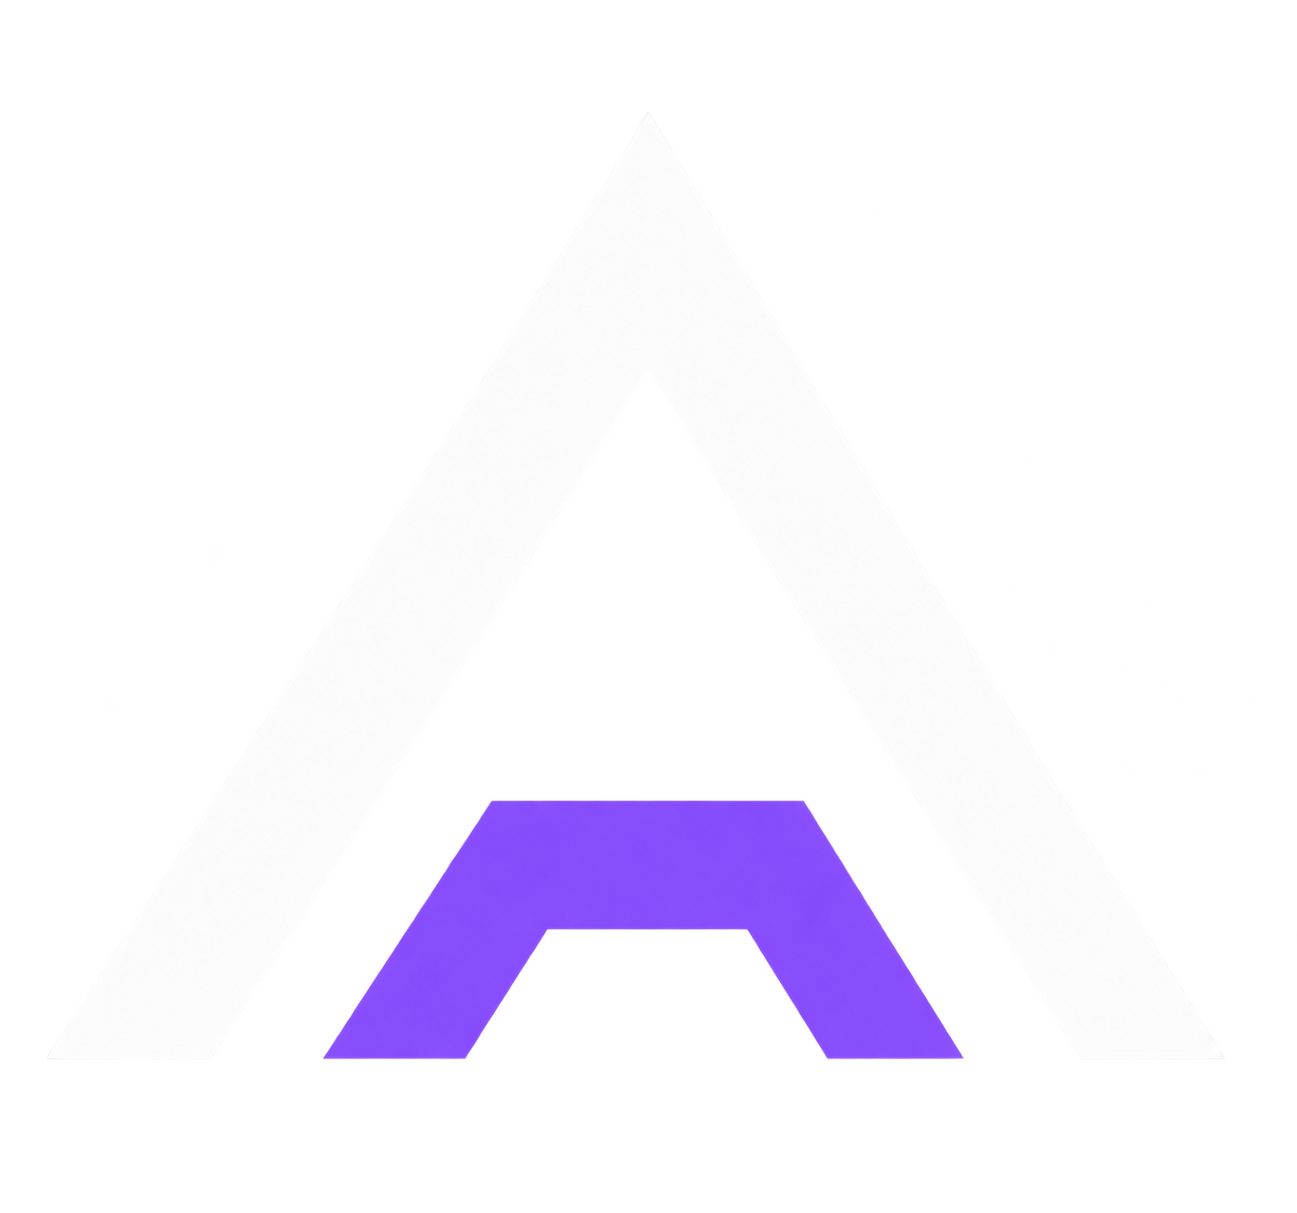
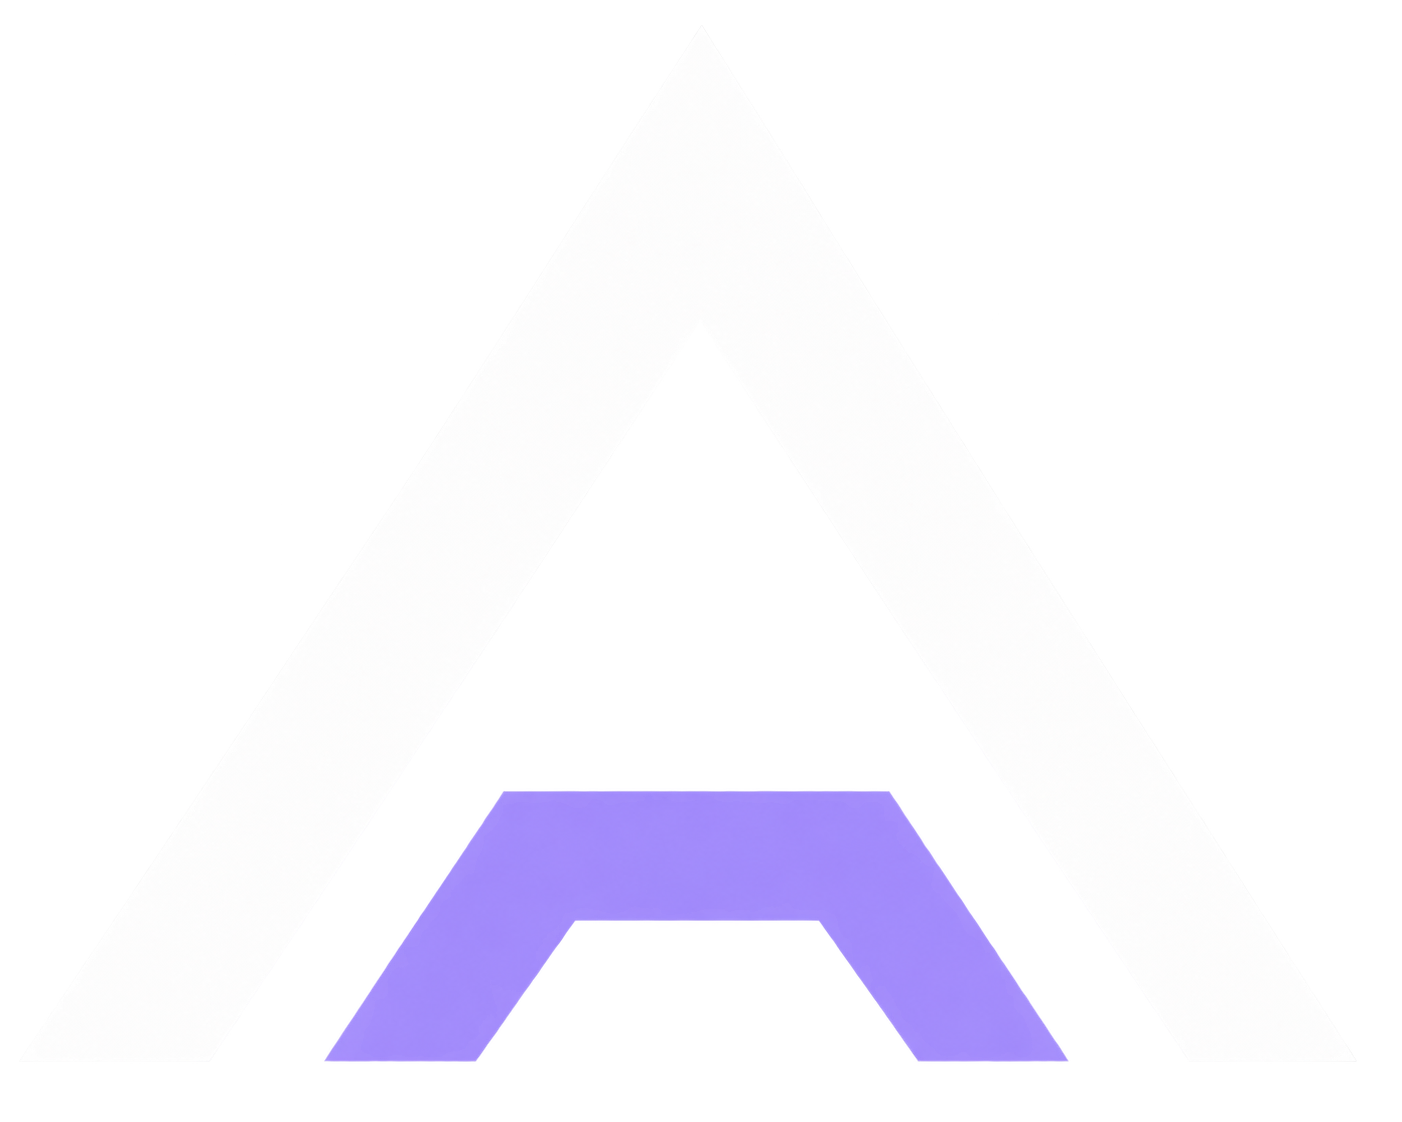
f

Changed region(s): [[0.2159, 0.6551, 0.771, 0.967]]

diff --git a/src/styles/ui.css b/src/styles/ui.css
@@ -193,15 +193,37 @@
   box-shadow: none;
 }
 
-.logo-compact-mark {
-  display: none;
+.brand-lockup {
+  display: inline-flex;
+  align-items: center;
+  gap: 9px;
+  min-width: 0;
+  color: var(--text-h);
+  line-height: 1;
 }
 
-.logo-full-mark {
+.brand-lockup__mark {
   display: block;
-  width: 126px;
-  height: 36px;
+  width: 32px;
+  height: 29px;
+  flex: 0 0 32px;
   object-fit: contain;
+}
+
+.brand-lockup__name {
+  display: inline-flex;
+  align-items: baseline;
+  color: #f7f6fb;
+  font-family: var(--display);
+  font-size: 1.18rem;
+  font-weight: 820;
+  letter-spacing: 0.13em;
+  line-height: 1;
+  white-space: nowrap;
+}
+
+.brand-lockup__accent {
+  color: #927cf4;
 }
 
 /* ─── User pill in topbar ─── */
@@ -1758,10 +1780,18 @@
   gap: 10px;
 }
 
-.app-loading-brand img {
-  display: block;
-  width: 176px;
-  height: auto;
+.brand-lockup--loading {
+  gap: 12px;
+}
+
+.brand-lockup--loading .brand-lockup__mark {
+  width: 43px;
+  height: 39px;
+  flex-basis: 43px;
+}
+
+.brand-lockup--loading .brand-lockup__name {
+  font-size: 1.62rem;
 }
 
 .app-loading-name {
@@ -3355,17 +3385,21 @@
     min-width: 0;
   }
 
-  .logo-compact-mark {
-    display: block;
-    width: 32px;
-    height: 32px;
-    flex: 0 0 32px;
-    object-fit: contain;
+  .brand-lockup--responsive .brand-lockup__name {
+    display: none;
   }
 
-  .logo-full-mark,
-  .logo > .logo-dot,
-  .logo > span {
+  .brand-lockup--responsive {
+    gap: 0;
+  }
+
+  .brand-lockup--responsive .brand-lockup__mark {
+    width: 32px;
+    height: 32px;
+    flex-basis: 32px;
+  }
+
+  .logo > .logo-dot {
     display: none;
   }
 
@@ -4528,10 +4562,18 @@
   letter-spacing: -0.045em;
 }
 
-.auth-brand__logo img {
-  display: block;
-  width: 154px;
-  height: auto;
+.brand-lockup--auth {
+  gap: 10px;
+}
+
+.brand-lockup--auth .brand-lockup__mark {
+  width: 36px;
+  height: 33px;
+  flex-basis: 36px;
+}
+
+.brand-lockup--auth .brand-lockup__name {
+  font-size: 1.42rem;
 }
 
 .auth-brand p {

diff --git a/src/game/slither/SlitherGame.jsx b/src/game/slither/SlitherGame.jsx
@@ -16,6 +16,7 @@ import GameSpectateHud from '../../components/GameSpectateHud';
 import GameCashoutBar from '../../components/GameCashoutBar';
 import GamePlusCursor from '../../components/GamePlusCursor';
 import GameSocialOverlay from '../../components/GameSocialOverlay';
+import BrandLogo from '../../components/BrandLogo';
 import { useSpectatorCamera } from '../../hooks/useSpectatorCamera';
 import { useSpectatorFollow } from '../../hooks/useSpectatorFollow';
 import GameBRHud from '../../components/GameBRHud';
@@ -1268,17 +1269,7 @@ export default function SlitherGame() {
 
             <div className="game-logo-wrap" style={{ position: 'absolute', top: '30px', right: '30px', display: 'flex', flexDirection: 'column', alignItems: 'flex-end', gap: '2px', zIndex: 100 }}>
 
-                <div style={{ display: 'inline-flex', alignItems: 'center', gap: '8px' }}>
-
-                    <div style={{ width: 7, height: 7, background: 'var(--accent)', borderRadius: '50%', boxShadow: '0 0 10px var(--accent)' }} />
-
-                    <span className="game-logo-text" style={{ fontSize: '1.25rem', fontWeight: 900, letterSpacing: '-1px', color: '#fff' }}>
-
-                        AGAR<span style={{ color: 'var(--accent)' }}>STAKE</span>
-
-                    </span>
-
-                </div>
+                <BrandLogo className="brand-lockup--game" labelled />
 
                 <div className="game-logo-sub" style={{ color: 'rgba(255,255,255,0.4)', fontSize: '0.8rem' }}>
                     {isBattleRoyale ? 'Battle Royale' : (isCompetitiveMode ? 'Slither Arena' : 'Slither Mode')}

diff --git a/src/game/agar/Game.jsx b/src/game/agar/Game.jsx
@@ -14,6 +14,7 @@ import GameSpectateHud from '../../components/GameSpectateHud';
 import GameCashoutBar from '../../components/GameCashoutBar';
 import GamePlusCursor from '../../components/GamePlusCursor';
 import GameSocialOverlay, { drawGameEmote, drawChatBubble } from '../../components/GameSocialOverlay';
+import BrandLogo from '../../components/BrandLogo';
 import { useSpectatorCamera } from '../../hooks/useSpectatorCamera';
 import { useSpectatorFollow } from '../../hooks/useSpectatorFollow';
 import GameBRHud from '../../components/GameBRHud';
@@ -1365,12 +1366,7 @@ export default function Game() {
                 alignItems: 'flex-end',
                 gap: '2px'
             }}>
-                <div className="logo" style={{ display: 'inline-flex', alignItems: 'center', gap: '8px' }}>
-                    <div style={{ width: 7, height: 7, background: 'var(--accent)', borderRadius: '50%', boxShadow: '0 0 10px var(--accent)' }} />
-                    <span className="game-logo-text" style={{ fontSize: '1.25rem', fontWeight: 900, letterSpacing: '-1px', color: '#fff' }}>
-                        AGAR<span style={{ color: 'var(--accent)' }}>STAKE</span>
-                    </span>
-                </div>
+                <BrandLogo className="brand-lockup--game" labelled />
                 <div className="game-logo-sub" style={{ color: 'rgba(255,255,255,0.4)', fontSize: '0.8rem' }}>
                     {isBattleRoyale ? 'Battle Royale' : 'Alpha Demo v0.1'}
                 </div>

diff --git a/src/styles/gameInGame.css b/src/styles/gameInGame.css
@@ -439,6 +439,34 @@ body.game-session-active #root {
     font-size: 0.95rem !important;
 }
 
+.brand-lockup--game {
+    gap: 7px;
+}
+
+.brand-lockup--game .brand-lockup__mark {
+    width: 27px;
+    height: 25px;
+    flex-basis: 27px;
+}
+
+.brand-lockup--game .brand-lockup__name {
+    font-size: 1.18rem;
+}
+
+.game-viewport--mobile .brand-lockup--game {
+    gap: 5px;
+}
+
+.game-viewport--mobile .brand-lockup--game .brand-lockup__mark {
+    width: 22px;
+    height: 20px;
+    flex-basis: 22px;
+}
+
+.game-viewport--mobile .brand-lockup--game .brand-lockup__name {
+    font-size: 0.88rem;
+}
+
 .game-viewport--mobile .game-logo-sub {
     font-size: 0.62rem !important;
 }
@@ -483,6 +511,21 @@ body.game-session-active #root {
     .game-viewport--mobile .game-logo-text {
         font-size: 0.72rem !important;
         letter-spacing: -0.5px !important;
+    }
+
+    .game-viewport--mobile .brand-lockup--game {
+        gap: 4px;
+    }
+
+    .game-viewport--mobile .brand-lockup--game .brand-lockup__mark {
+        width: 18px;
+        height: 17px;
+        flex-basis: 18px;
+    }
+
+    .game-viewport--mobile .brand-lockup--game .brand-lockup__name {
+        font-size: 0.68rem;
+        letter-spacing: 0.1em;
     }
 
     .game-viewport--mobile .game-logo-sub {

diff --git a/src/components/AppTopbar.jsx b/src/components/AppTopbar.jsx
@@ -5,6 +5,7 @@ import { API_URL } from '../utils/apiBase';
 import { hasUnseenActiveTournament, TOURNAMENT_SEEN_EVENT } from '../utils/tournamentNotifications';
 import useBalanceCurrency from '../hooks/useBalanceCurrency';
 import CurrencySwitchButton from './CurrencySwitchButton';
+import BrandLogo from './BrandLogo';
 
 export default function AppTopbar({ children }) {
     const navigate = useNavigate();
@@ -123,8 +124,7 @@ export default function AppTopbar({ children }) {
                     </button>
 
                     <button type="button" className="logo" aria-label="Arenifi home" onClick={() => navigate('/pre-game')}>
-                        <img className="logo-full-mark" src="/arenifi-logo.png" alt="Arenifi" />
-                        <img className="logo-compact-mark" src="/arenifi-mark-transparent.png" alt="" aria-hidden="true" />
+                        <BrandLogo responsive />
                     </button>
 
                     <div className="topbar-nav topbar-nav--desktop">

diff --git a/src/pages/BRLobby.jsx b/src/pages/BRLobby.jsx
@@ -8,6 +8,7 @@ import { normalizeBREntryFee, formatUsd } from '../constants/economy';
 import { getOrCreatePresenceId } from '../utils/sitePresence';
 import '../styles/ui.css';
 import { API_URL } from '../utils/apiBase';
+import BrandLogo from '../components/BrandLogo';
 
 const MIN_PLAYERS = 5;
 const MAX_PLAYERS = 10;
@@ -143,8 +144,7 @@ export default function BRLobby() {
             <nav className="topbar" style={{ width: '100%', zIndex: 2 }}>
                 <div className="topbar-left">
                     <button type="button" className="logo" onClick={() => navigate('/pre-game')} aria-label="Arenifi home">
-                        <img className="logo-full-mark" src="/arenifi-logo.png" alt="Arenifi" />
-                        <img className="logo-compact-mark" src="/arenifi-mark-transparent.png" alt="" aria-hidden="true" />
+                        <BrandLogo responsive />
                     </button>
                 </div>
             </nav>

diff --git a/src/components/BrandLogo.jsx b/src/components/BrandLogo.jsx
@@ -1,0 +1,26 @@
+import React from 'react';
+
+export default function BrandLogo({ responsive = false, className = '', labelled = false }) {
+    const classes = [
+        'brand-lockup',
+        responsive ? 'brand-lockup--responsive' : '',
+        className,
+    ].filter(Boolean).join(' ');
+
+    return (
+        <span
+            className={classes}
+            {...(labelled ? { role: 'img', 'aria-label': 'Arenifi' } : { 'aria-hidden': true })}
+        >
+            <img
+                className="brand-lockup__mark"
+                src="/arenifi-mark-transparent.png"
+                alt=""
+                aria-hidden="true"
+            />
+            <span className="brand-lockup__name">
+                <span>ARENI</span><span className="brand-lockup__accent">FI</span>
+            </span>
+        </span>
+    );
+}

diff --git a/src/components/AppLoadingScreen.jsx b/src/components/AppLoadingScreen.jsx
@@ -1,10 +1,11 @@
 import React from 'react';
+import BrandLogo from './BrandLogo';
 
 export default function AppLoadingScreen() {
     return (
         <div className="app-loading" role="status" aria-label="Loading">
             <div className="app-loading-brand">
-                <img src="/arenifi-logo.png" alt="Arenifi" />
+                <BrandLogo className="brand-lockup--loading" labelled />
             </div>
             <span className="spinner app-loading-spinner" />
         </div>

diff --git a/src/components/AuthScaffold.jsx b/src/components/AuthScaffold.jsx
@@ -1,11 +1,12 @@
 import React from 'react';
 import { Link } from 'react-router-dom';
+import BrandLogo from './BrandLogo';
 
 export function AuthBrand({ subtitle }) {
     return (
         <header className="auth-brand">
             <div className="auth-brand__logo">
-                <img src="/arenifi-logo.png" alt="Arenifi" />
+                <BrandLogo className="brand-lockup--auth" labelled />
             </div>
             <p>{subtitle}</p>
         </header>
